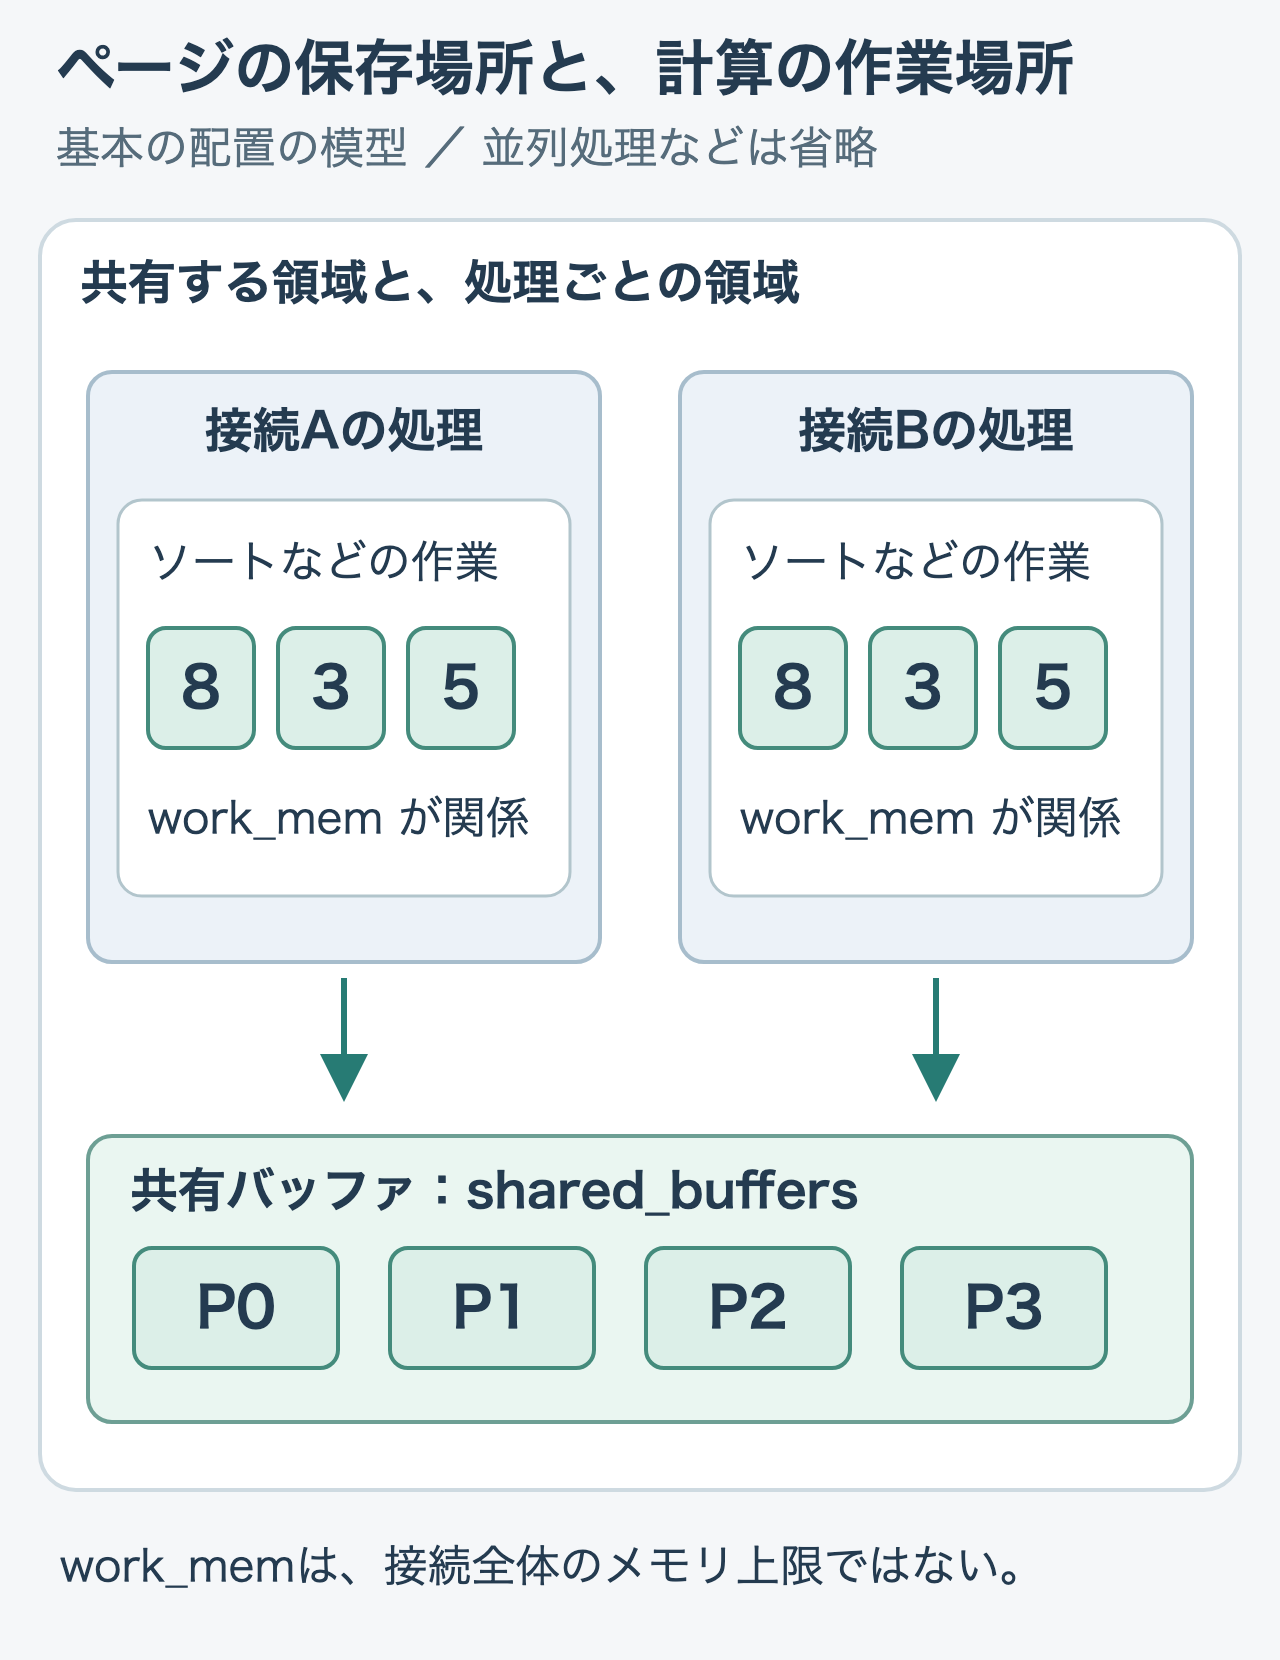
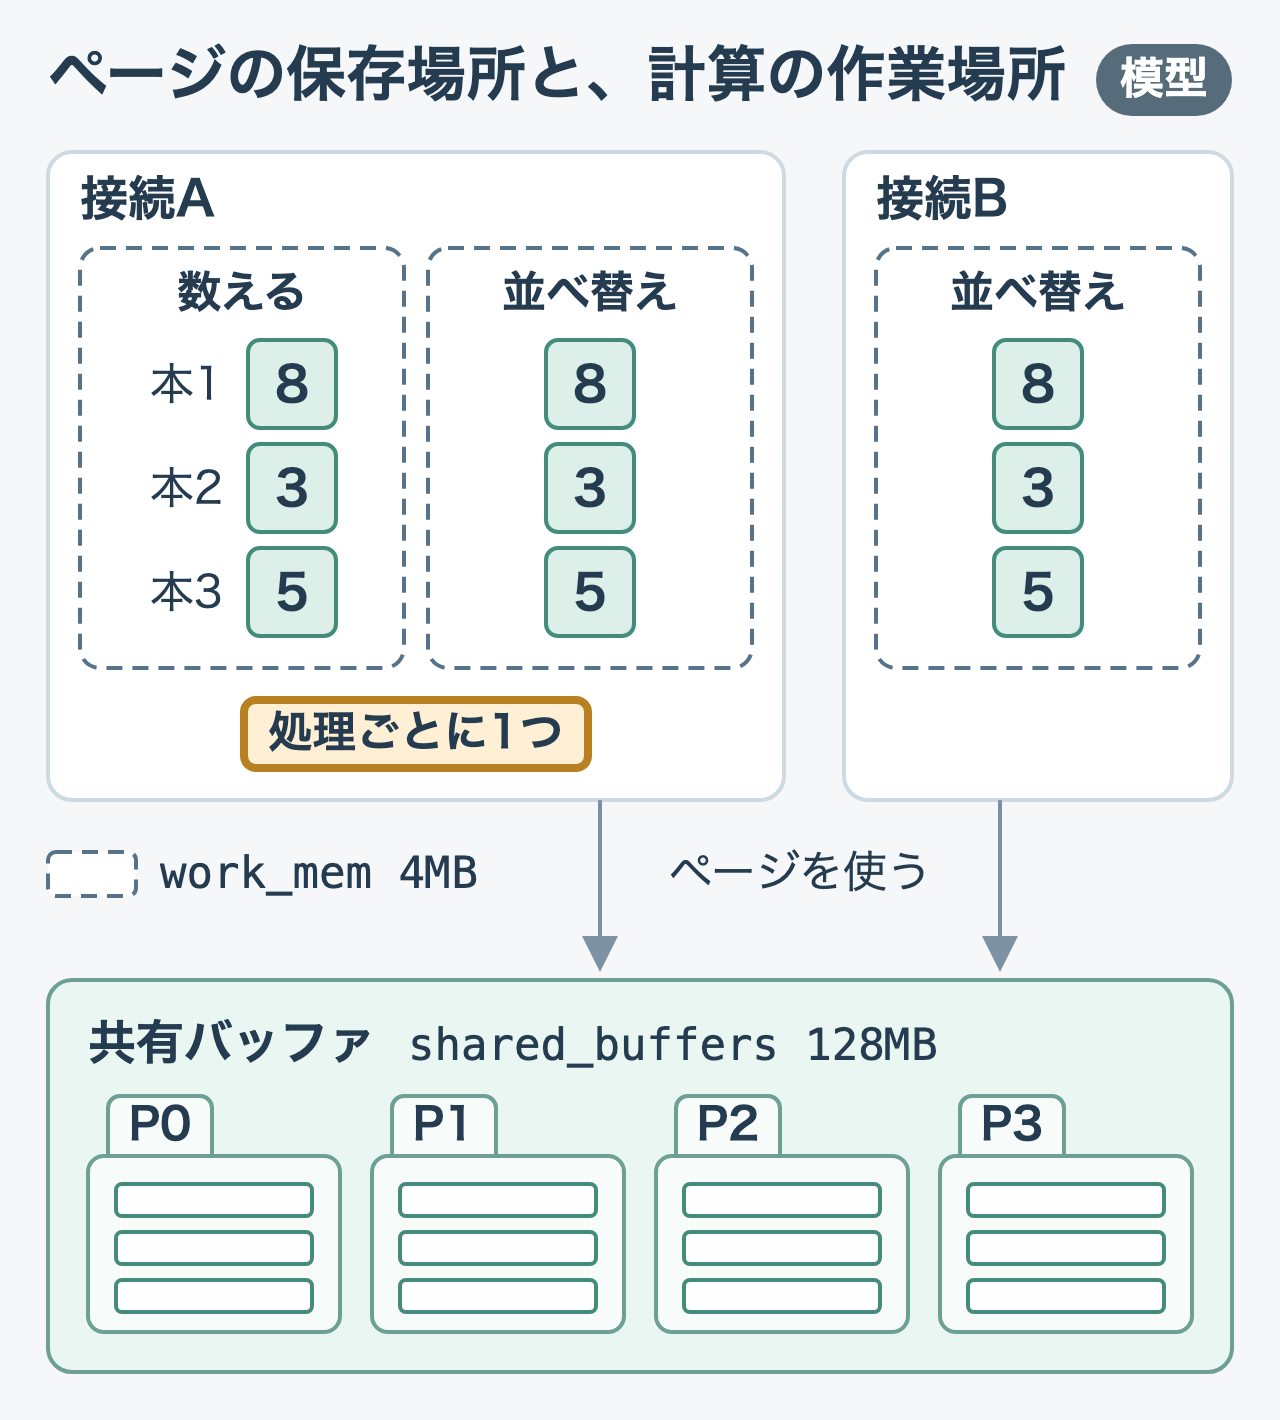
docs(query-journey): 第5章のメモリの図で、作業領域を処理ごとの枠にする
作業用メモリが接続に一つに見えていた。work_mem は並べ替えなどの処理ごとに使うので、接続Aに作業領域を二つ、接続Bに一つ描く。本文が読む「8、3、5」と「P0〜P3」は残した。部品見本に作業領域・値カード・共有バッファを足した。

Changed region(s): [[0.0312, 0.0, 0.9688, 0.9606], [0.9375, 0.9296, 0.9688, 0.9606]]

diff --git a/books/postgresql-query-journey/05-memory-and-buffers.md b/books/postgresql-query-journey/05-memory-and-buffers.md
@@ -179,8 +179,8 @@ SQLも、返る1行も、3回とも同じです。それなら前回の答えを
 
 こうした値を置くのが、処理ごとの**作業領域**（作業用メモリ）です。図で、二つの接続がそれぞれ作業領域を持ち、共有バッファだけを共有している配置を見てください。
 
-![ページの保存場所と、計算の作業場所](/images/postgresql-query-journey/04-memory-regions.png)
-*基本の配置の模型。並列処理などは省略しています。*
+![接続Aは数える処理と並べ替えの作業領域を二つ、接続Bは並べ替えの一つを持ち、下の共有バッファのページP0〜P3は両方の接続が使う](/images/postgresql-query-journey/04-memory-regions.png)
+*接続Aに破線の枠が二つあることを見てください。作業領域は処理ごとに用意され、共有バッファだけを両方の接続で使います（模型）。*
 
 図の上側の「8、3、5」は、接続Aと接続Bがそれぞれ並べ替えている途中の値です。並べ替えは**ソート**とも呼びます。図では同じ数字にしていますが、それぞれが別々に持っている値です。接続Aの途中の値を接続Bが使うことはないので、作業領域は接続ごとに別々です。一つの接続の中でも、並べ替えなどの処理ごとに用意されます。
 
